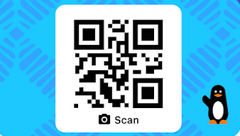
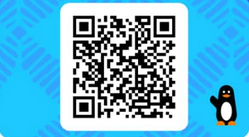
add qr code component

diff --git a/screens/home/index.jsx b/screens/home/index.jsx
@@ -5,6 +5,7 @@ import { COLORS } from "../../constant/colors";
 import SettingsButton from "./SettingsButton";
 import UserBalance from "./UserBalance";
 import DashboardIcons from "./DashboardIcons";
+import QrCode from "./QrCode";
 
 const DashboardScreen = () => {
   return (
@@ -13,6 +14,9 @@ const DashboardScreen = () => {
       <View style={styles.top}>
         <SettingsButton />
         <UserBalance />
+        <View style={styles.qrCodeContainer}>
+          <QrCode />
+        </View>
       </View>
 
       <View style={styles.bottom}>
@@ -41,5 +45,13 @@ const styles = StyleSheet.create({
     borderTopLeftRadius: 30,
     borderTopRightRadius: 30,
     overflow: "hidden",
+  },
+  qrCodeContainer: {
+    position: "absolute",
+    bottom: -70,
+    left: 0,
+    right: 0,
+    alignItems: "center",
+    zIndex: 999,
   },
 });

diff --git a/screens/home/QrCode.jsx b/screens/home/QrCode.jsx
@@ -1,0 +1,22 @@
+import { Image, StyleSheet, Text, View } from "react-native";
+import React from "react";
+
+const QrCode = () => {
+  return (
+    <View style={styles.container}>
+      <Image source={require("../../assets/qr.png")} style={styles.img} />
+    </View>
+  );
+};
+
+export default QrCode;
+
+const styles = StyleSheet.create({
+  container: {},
+  img: {
+    borderRadius: 20,
+    height: 150,
+    width: 290,
+    resizeMode: "contain",
+  },
+});

diff --git a/screens/home/DashboardIcons.jsx b/screens/home/DashboardIcons.jsx
@@ -5,6 +5,7 @@ import {
   MaterialCommunityIcons,
   FontAwesome5,
 } from "@expo/vector-icons";
+import QrCode from "./QrCode";
 
 const DashboardIcons = () => {
   return (
